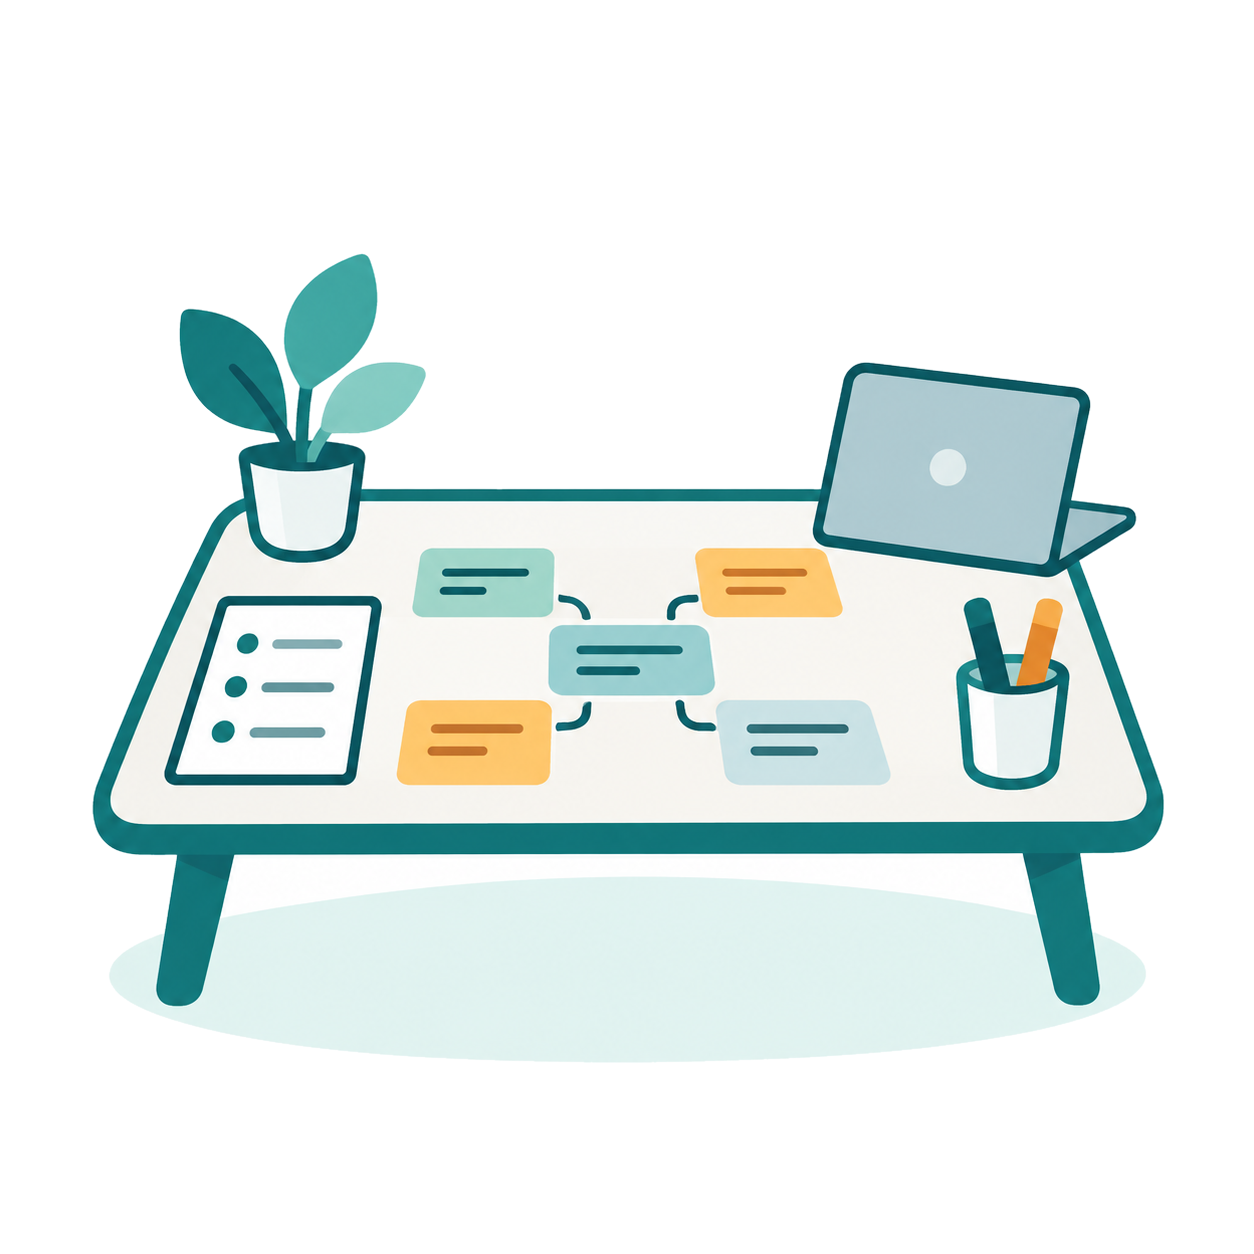
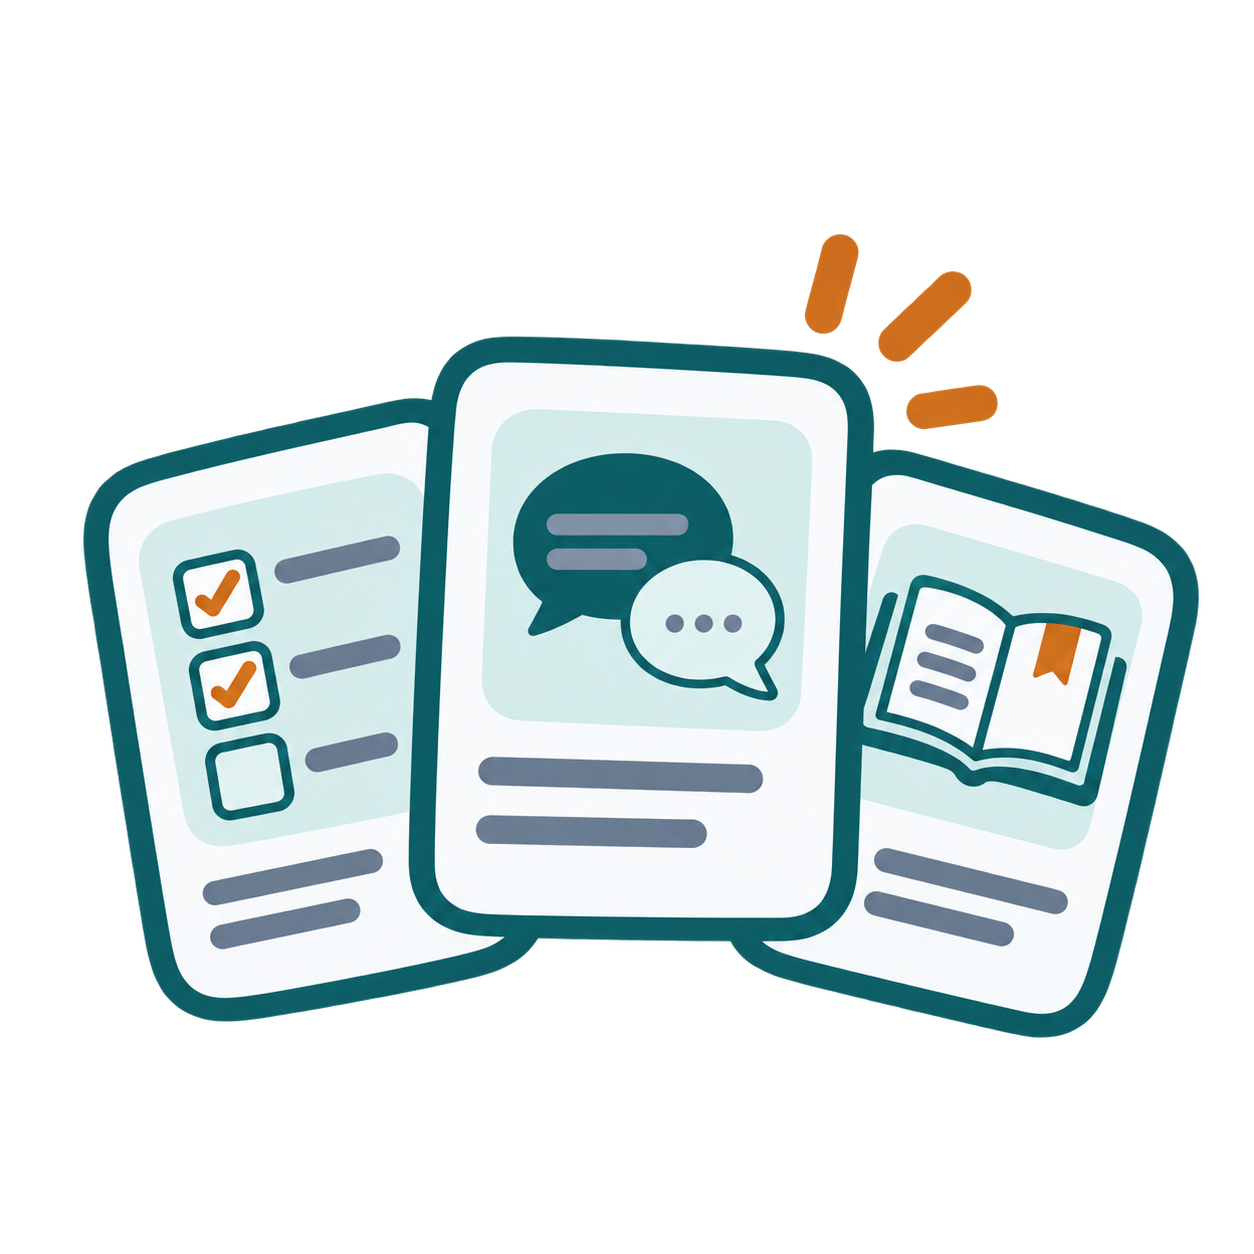
feat: use dedicated compass, tools and telegram illustrations

diff --git a/frontend/src/app/telegram-link/page.tsx b/frontend/src/app/telegram-link/page.tsx
@@ -4,7 +4,7 @@ import { Suspense, useEffect, useState } from 'react';
 import { useSearchParams } from 'next/navigation';
 import { apiFetch } from '@/lib/auth';
 import { useI18n } from '@/lib/i18n-context';
-import { Send } from 'lucide-react';
+import Image from 'next/image';
 
 // Local copy is complete for every supported interface language.
 const TEXTS = {
@@ -90,7 +90,14 @@ function TelegramLinkInner() {
 
     return (
         <main className="mx-auto flex min-h-screen max-w-md flex-col items-center justify-center gap-6 p-6 text-center">
-            <Send className="h-10 w-10 text-slate-500" aria-hidden />
+            <Image
+                src="/images/platform/telegram.png"
+                alt=""
+                width={144}
+                height={144}
+                sizes="96px"
+                className="h-24 w-24 object-contain"
+            />
             <h1 className="text-2xl font-bold text-slate-800">{texts.title}</h1>
             {error && <p className="text-sm text-red-600">{texts.error}</p>}
             {!error && !code && <p className="text-sm text-slate-500">{texts.loading}</p>}
